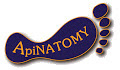
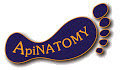
#12 optimize page load

diff --git a/css/used_by.css b/css/used_by.css
@@ -58,7 +58,7 @@
 }
 
 #contributors .row div  {
-    filter: url(../img/usedby/filters.svg#grayscale); /* Firefox 3.5+ */
+    filter: url(../img/usedby_thumb/filters.svg#grayscale); /* Firefox 3.5+ */
     filter: gray; /* IE6-9 */
     -webkit-filter: grayscale(1); /* Google Chrome & Safari 6+ */
     padding-bottom: 15px;
@@ -71,59 +71,59 @@
 
 
 #contributors-rostlab{
-    background-image: url(../img/usedby/rostlab.png);
+    background-image: url(../img/usedby_thumb/rostlab.png);
 }
 
 #contributors-ssi{
-    background-image: url(../img/usedby/ssi.png);
+    background-image: url(../img/usedby_thumb/ssi.png);
 }
 
 #contributors-embl-ebi{
-    background-image: url(../img/usedby/embl-ebi.png);
+    background-image: url(../img/usedby_thumb/embl-ebi.png);
 }
 
 #contributors-elife{
-    background-image: url(../img/usedby/elife.gif);
+    background-image: url(../img/usedby_thumb/elife.gif);
 }
 
 #contributors-tgac{
-    background-image: url(../img/usedby/tgac.png);
+    background-image: url(../img/usedby_thumb/tgac.png);
 }
 
 #contributors-intermine{
-    background-image: url(../img/usedby/intermine.png);
+    background-image: url(../img/usedby_thumb/intermine.png);
 }
 
 #contributors-apinatomy{
-    background-image: url(../img/usedby/apinatomy.jpg);
+    background-image: url(../img/usedby_thumb/apinatomy.jpg);
 }
 
 #contributors-bionode{
-    background-image: url(../img/usedby/bionode.jpg);
+    background-image: url(../img/usedby_thumb/bionode.jpg);
 }
 
 #contributors-berkeley-lab{
-    background-image: url(../img/usedby/berkeley_lab.png);
+    background-image: url(../img/usedby_thumb/berkeley_lab.png);
 }
 
 #contributors-mpimg{
-    background-image: url(../img/usedby/mpimg.jpg);
+    background-image: url(../img/usedby_thumb/mpimg.jpg);
 }
 
 #contributors-mpi-biochem{
-    background-image: url(../img/usedby/mpi_biochem.png);
+    background-image: url(../img/usedby_thumb/mpi_biochem.png);
 }
 
 #contributors-openphacts{
-    background-image: url(../img/usedby/openphacts.png);
+    background-image: url(../img/usedby_thumb/openphacts.png);
 }
 
 #contributors-openvis{
-    background-image: url(../img/usedby/openvis.png);
+    background-image: url(../img/usedby_thumb/openvis.png);
 }
 
 #contributors-cath-ucl {
-    background-image: url(../img/usedby/ucl_logo_standalone.png);
+    background-image: url(../img/usedby_thumb/ucl_logo_standalone.png);
 }
 
 #contributors-carousel .item {

diff --git a/css/showcase.css b/css/showcase.css
@@ -15,44 +15,44 @@
 
 
 
-#showcase-container .row{
+#showcase_thumb-container .row{
     padding-top: 20px;
     padding-bottom: 10px;
 }
 
 .showcase-disp {
-    background-image: url(../img/showcase/disp.png);
+    background-image: url(../img/showcase_thumb/disp.jpg);
 }
 
 .showcase-disp2 {
-    background-image: url(../img/showcase/disp2.png);
+    background-image: url(../img/showcase_thumb/disp2.jpg);
 }
 
 .showcase-expAtlas {
-    background-image: url(../img/showcase/expAtlas.png);
+    background-image: url(../img/showcase_thumb/expAtlas.jpg);
 }
 
 .showcase-featViewer {
-     background-image: url(../img/showcase/featViewer.png);
+     background-image: url(../img/showcase_thumb/featViewer.jpg);
 }
 
 .showcase-hpasummary {
-     background-image: url(../img/showcase/hpasummary.jpg);
+     background-image: url(../img/showcase_thumb/hpasummary.jpg);
 }
 
 .showcase-intbundle {
-    background-image: url(../img/showcase/intbundle.png);
+    background-image: url(../img/showcase_thumb/intbundle.jpg);
 }
 
 .showcase-intd3 {
-    background-image: url(../img/showcase/intd3.png);
+    background-image: url(../img/showcase_thumb/intd3.jpg);
 }
 
 .showcase-kegg {
-    background-image: url(../img/showcase/kegg.png);
+    background-image: url(../img/showcase_thumb/kegg.jpg);
 }
 
 .showcase-protport {
-     background-image: url(../img/showcase/protport.png);
+     background-image: url(../img/showcase_thumb/protport.jpg);
 }
 
